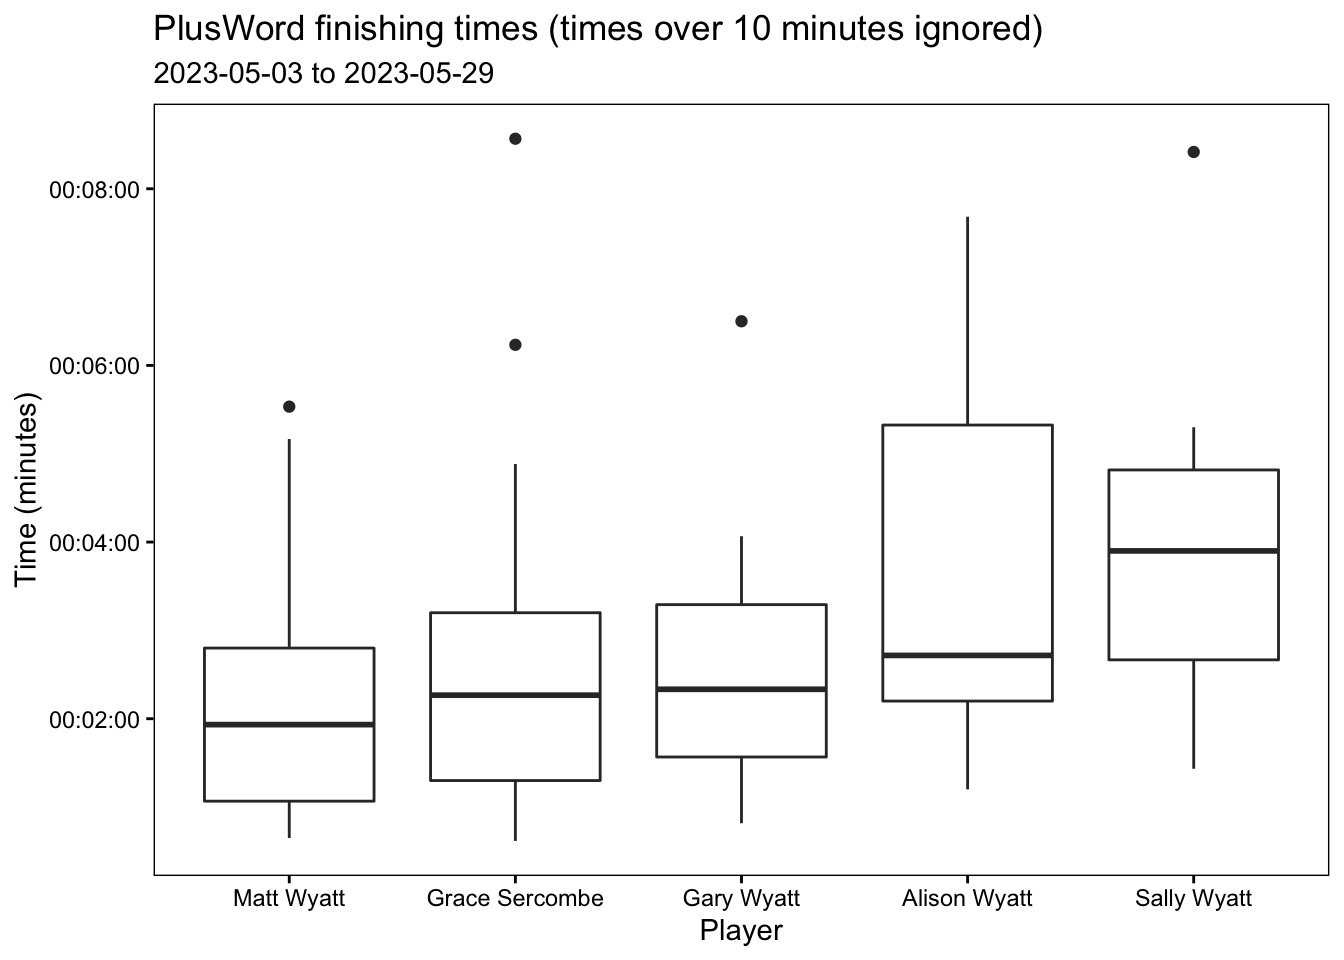
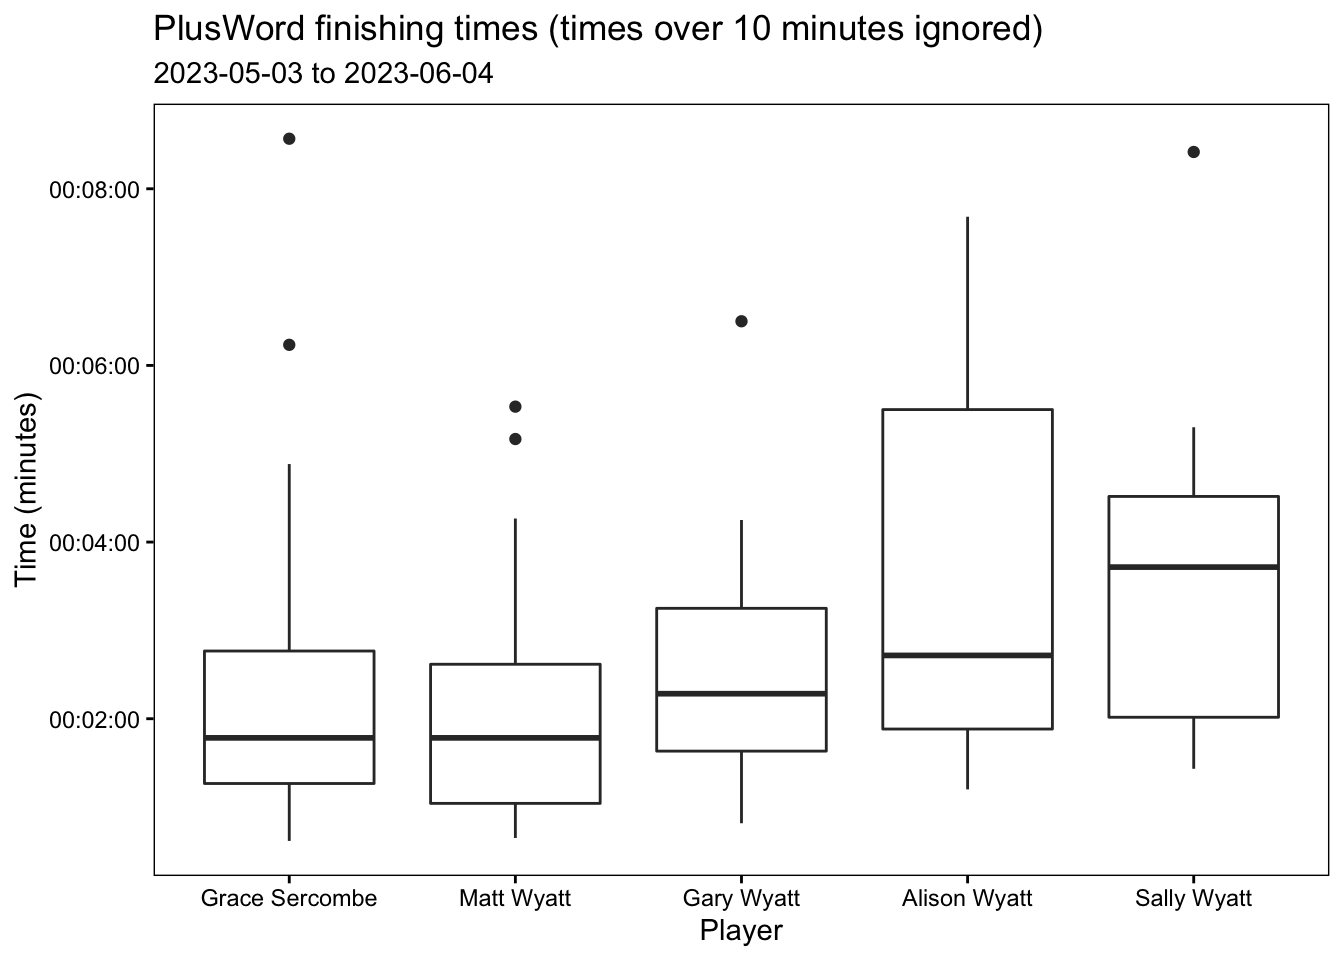
Added latest times

diff --git a/plusword_analysis.html b/plusword_analysis.html
@@ -77,6 +77,7 @@ ul.task-list li input[type="checkbox"] {
 <th style="text-align: right;">1</th>
 <th style="text-align: right;">2</th>
 <th style="text-align: right;">3</th>
+<th style="text-align: right;">3.5</th>
 <th style="text-align: right;">4</th>
 <th style="text-align: right;">5</th>
 <th style="text-align: right;">Games</th>
@@ -84,49 +85,54 @@ ul.task-list li input[type="checkbox"] {
 </thead>
 <tbody>
 <tr class="odd">
-<td style="text-align: left;">Matt Wyatt</td>
-<td style="text-align: right;">11</td>
-<td style="text-align: right;">8</td>
-<td style="text-align: right;">2</td>
-<td style="text-align: right;">4</td>
-<td style="text-align: right;">1</td>
-<td style="text-align: right;">26</td>
-</tr>
-<tr class="even">
 <td style="text-align: left;">Grace Sercombe</td>
-<td style="text-align: right;">8</td>
-<td style="text-align: right;">6</td>
+<td style="text-align: right;">13</td>
+<td style="text-align: right;">7</td>
 <td style="text-align: right;">4</td>
+<td style="text-align: right;">0</td>
 <td style="text-align: right;">7</td>
 <td style="text-align: right;">0</td>
-<td style="text-align: right;">25</td>
+<td style="text-align: right;">31</td>
+</tr>
+<tr class="even">
+<td style="text-align: left;">Matt Wyatt</td>
+<td style="text-align: right;">12</td>
+<td style="text-align: right;">12</td>
+<td style="text-align: right;">3</td>
+<td style="text-align: right;">0</td>
+<td style="text-align: right;">4</td>
+<td style="text-align: right;">1</td>
+<td style="text-align: right;">32</td>
 </tr>
 <tr class="odd">
 <td style="text-align: left;">Gary Wyatt</td>
 <td style="text-align: right;">5</td>
-<td style="text-align: right;">7</td>
 <td style="text-align: right;">8</td>
+<td style="text-align: right;">12</td>
+<td style="text-align: right;">0</td>
 <td style="text-align: right;">2</td>
-<td style="text-align: right;">3</td>
-<td style="text-align: right;">25</td>
+<td style="text-align: right;">4</td>
+<td style="text-align: right;">31</td>
 </tr>
 <tr class="even">
 <td style="text-align: left;">Alison Wyatt</td>
 <td style="text-align: right;">1</td>
 <td style="text-align: right;">5</td>
 <td style="text-align: right;">9</td>
-<td style="text-align: right;">6</td>
-<td style="text-align: right;">2</td>
-<td style="text-align: right;">23</td>
+<td style="text-align: right;">1</td>
+<td style="text-align: right;">10</td>
+<td style="text-align: right;">3</td>
+<td style="text-align: right;">29</td>
 </tr>
 <tr class="odd">
 <td style="text-align: left;">Sally Wyatt</td>
 <td style="text-align: right;">1</td>
 <td style="text-align: right;">0</td>
 <td style="text-align: right;">3</td>
-<td style="text-align: right;">5</td>
-<td style="text-align: right;">5</td>
-<td style="text-align: right;">14</td>
+<td style="text-align: right;">1</td>
+<td style="text-align: right;">6</td>
+<td style="text-align: right;">7</td>
+<td style="text-align: right;">18</td>
 </tr>
 </tbody>
 </table>
